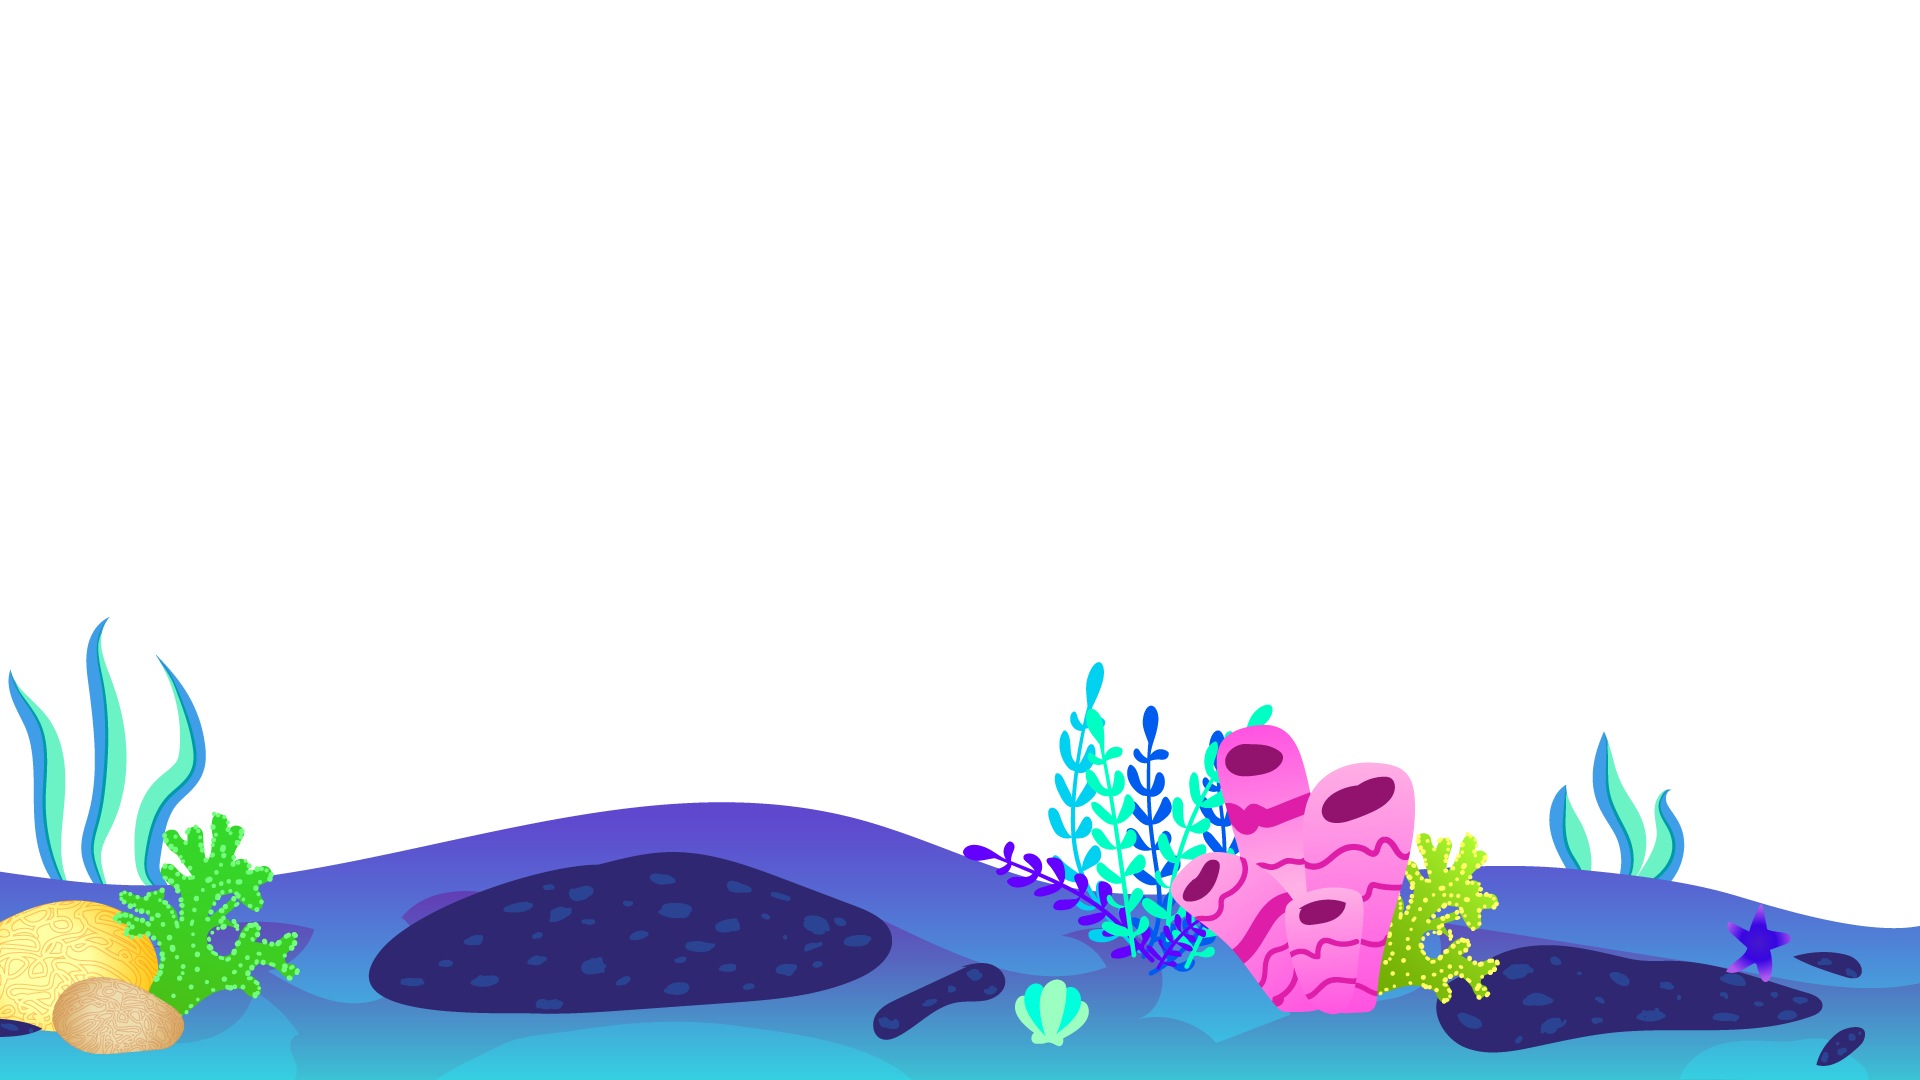
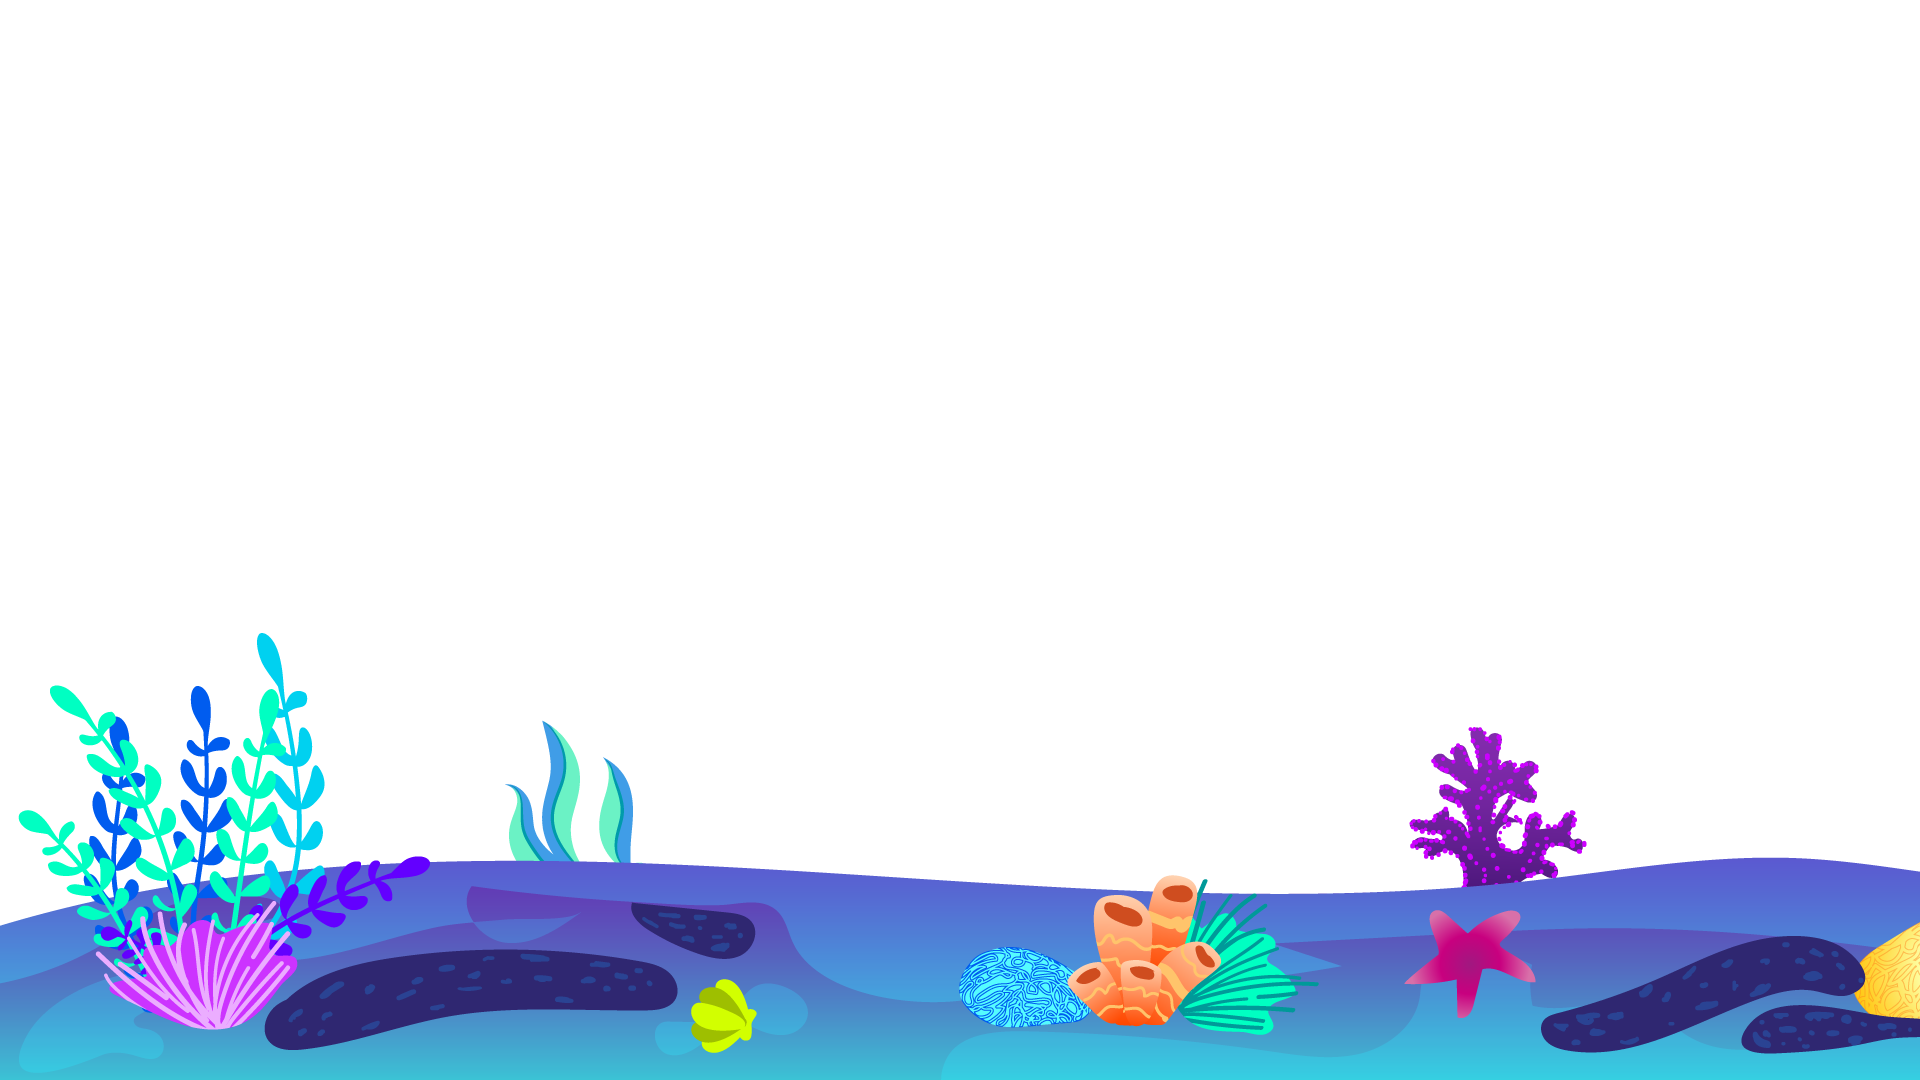
wip: adding backgrounds, and refactor some class structures

Changed region(s): [[0.0, 0.5806, 1.0, 1.0]]

diff --git a/js/classes/World.js b/js/classes/World.js
@@ -1,15 +1,36 @@
 class World {
 
     ctx;
-    player = new PlayerCharacter();
+    canvas;
+    backgrounds = [
+        new Background('../assets/imgs/background/background_water_1.png'), 
+        new Background('../assets/imgs/background/background_5.png'), 
+        new Background('../assets/imgs/background/background_floor_3.png')
+    ];
+    character = new PlayerCharacter();
+    jellyfish = new Jellyfish();
 
     constructor(canvas) {
         this.ctx = canvas.getContext('2d');
+        this.canvas = canvas;
         this.draw();
     }
 
     draw() {
-        this.ctx.drawImage(this.player.img, this.player.posX, this.player.posY, this.player.width, this.player.height);
+        this.ctx.clearRect(0, 0, this.canvas.width, this.canvas.height);
+        this.backgrounds.forEach(background => {
+            this.addToWorld(background);
+        });
+        this.addToWorld(this.character);
+        this.addToWorld(this.jellyfish);
+
+        requestAnimationFrame(() => {
+            this.draw();
+        });
+    }
+
+    addToWorld(object) {
+        this.ctx.drawImage(object.img, object.posX, object.posY, object.width, object.height);
     }
 }
 

diff --git a/index.html b/index.html
@@ -6,11 +6,15 @@
         <title>Sharky</title>
         <link rel="stylesheet" href="./css/style.css">
         <script src="./js/classes/Actor.js"></script>
-        <script src="./js/classes/World.js"></script>
         <script src="./js/classes/PlayerCharacter.js"></script>
+        <script src="./js/classes/Jellyfish.js"></script>
+        <script src="./js/classes/Background.js"></script>
+        <script src="./js/classes/World.js"></script>
         <script src="./js/game.js" defer></script>
     </head>
     <body>
-        <canvas id="canvas" width="1080" height="720"></canvas>
+        <main>
+            <canvas id="canvas" width="1080" height="720"></canvas>
+        </main>
     </body>
 </html>

diff --git a/js/classes/Actor.js b/js/classes/Actor.js
@@ -4,15 +4,12 @@ class Actor {
     posY;
     width;
     height;
-    life;
 
-    constructor(x=0, y=0, width=100, height=100, life=100) {
+    constructor(x=0, y=0, width=100, height=100) {
         this.posX = x
         this.posY = y
         this.width = width;
         this.height = height;
-        this.life = life
-        // this.loadImg(path);
     }
 
     loadImg(path) {

diff --git a/js/classes/PlayerCharacter.js b/js/classes/PlayerCharacter.js
@@ -1,15 +1,15 @@
 class PlayerCharacter extends Actor {
 
     constructor() {
-        super();
+        super(0, 200, 200, 200);
         this.loadImg('../assets/sprites/sharkie/idle/sharkie_idle_1.png');
     }
 
-    bubbleBeam() {
+    attackBubbleBeam() {
         
     }
 
-    finSlash() {
+    attackFinSlash() {
 
     }
 }

diff --git a/css/style.css b/css/style.css
@@ -1,3 +1,21 @@
+* {
+    box-sizing: border-box;
+    padding: 0;
+    margin: 0;
+}
+
+body {
+    height: 100vh;
+}
+
+main {
+    height: 100%;
+    display: flex;
+    align-items: center;
+    justify-content: center;
+    background-color: #2b3242;
+}
+
 canvas {
     background-color: black;
 }

diff --git a/js/classes/Jellyfish.js b/js/classes/Jellyfish.js
@@ -1,5 +1,6 @@
 class Jellyfish extends Actor {
-    // constructor(x, y, img, life) {
-    //     super(x, y, img, life);
-    // }
+    constructor() {
+        super(800, 200);
+        this.loadImg('../assets/sprites/enemy/jellyfish/swim/jellyfish_swim_1.png');
+    }
 }

diff --git a/js/classes/Background.js b/js/classes/Background.js
@@ -1,0 +1,7 @@
+class Background extends Actor {
+    constructor(imgPath) {
+        super(0, 0, 1080, 720);
+        this.loadImg(imgPath);
+    }
+    
+}
